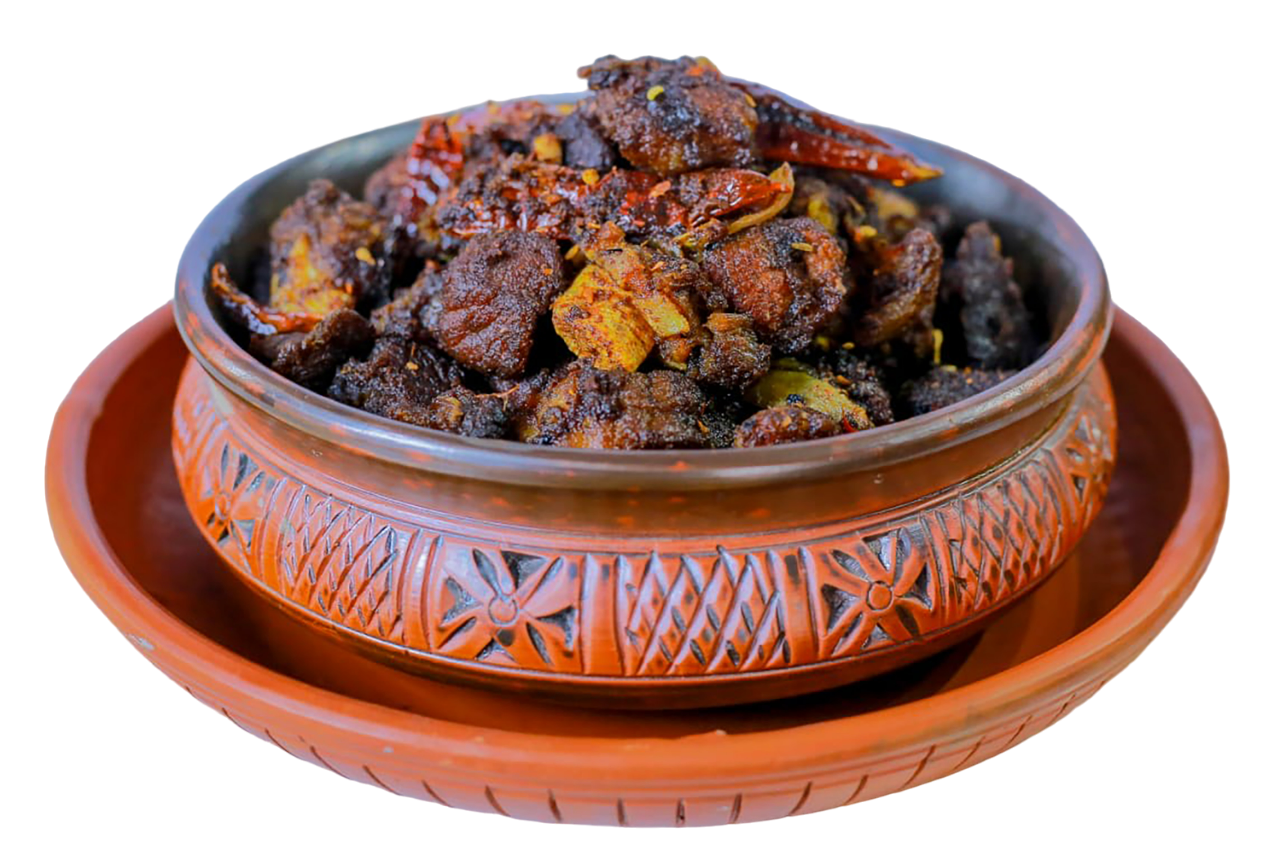
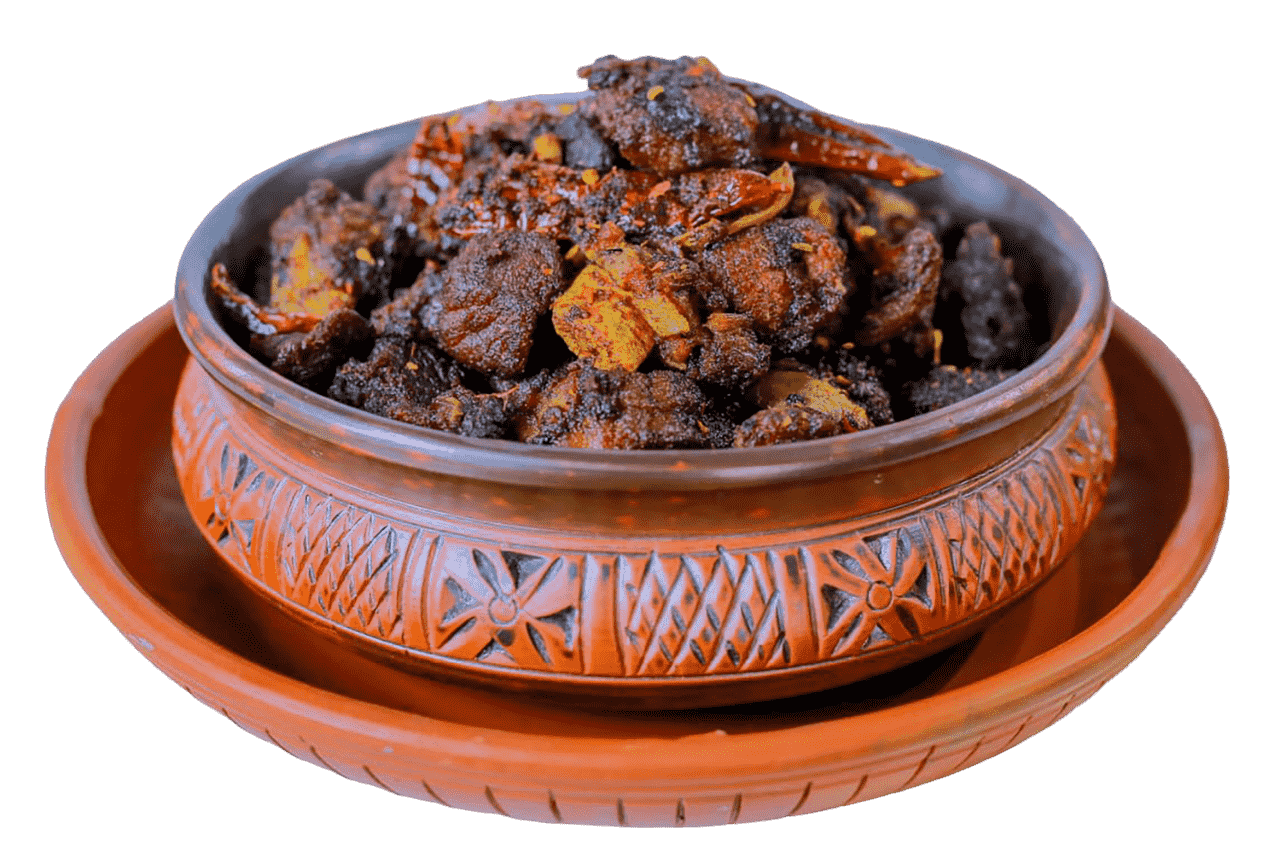
red theme implemented

diff --git a/assets/css/style.css b/assets/css/style.css
@@ -15,13 +15,13 @@
   --champagne-pink: hsl(23, 61%, 86%);
   --spanish-gray: hsl(0, 0%, 60%);
   --sonic-silver: hsl(0, 0%, 47%);
-  --deep-saffron: hsl(200, 74%, 48%);
+  --deep-saffron: hsl(3, 68%, 52%);
   --dark-orange: hsl(52, 100%, 61%);
   --desert-sand: hsl(23, 49%, 82%);
   --isabelline: hsl(38, 44%, 96%);
   --gainsboro: hsl(0, 0%, 87%);
   --tangerine: hsl(31, 84%, 50%);
-  --cinnabar: hsl(3, 90%, 55%);
+  --cinnabar: hsl(200, 74%, 48%);
   --black_95: hsla(0, 0%, 0%, 0.95);
   --cultured: hsl(0, 0%, 93%);
   --white: hsl(0, 0%, 100%);

diff --git a/index.html b/index.html
@@ -261,7 +261,7 @@
                   Beef Fry is preperd in Nadan style
                 </p>
 
-                <img src="./assets/images/promo-3.png" width="300" height="300" loading="lazy" alt="French Fry"
+                <img src="./assets/images/beeffry.png" width="300" height="300" loading="lazy" alt="French Fry"
                   class="w-100 card-banner">
 
               </div>
